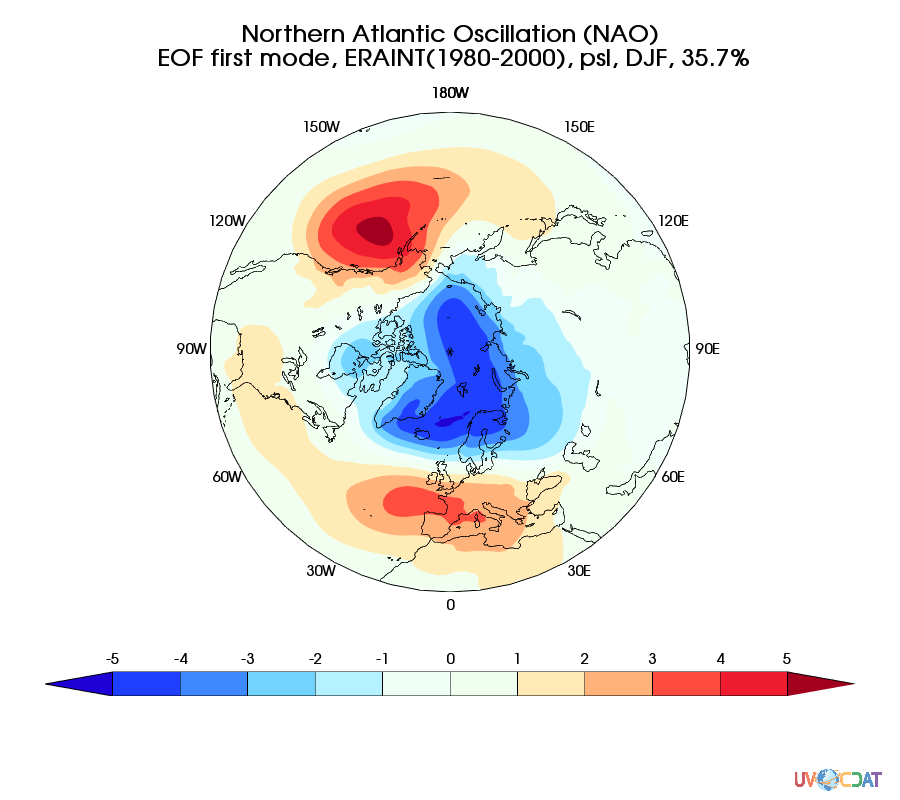
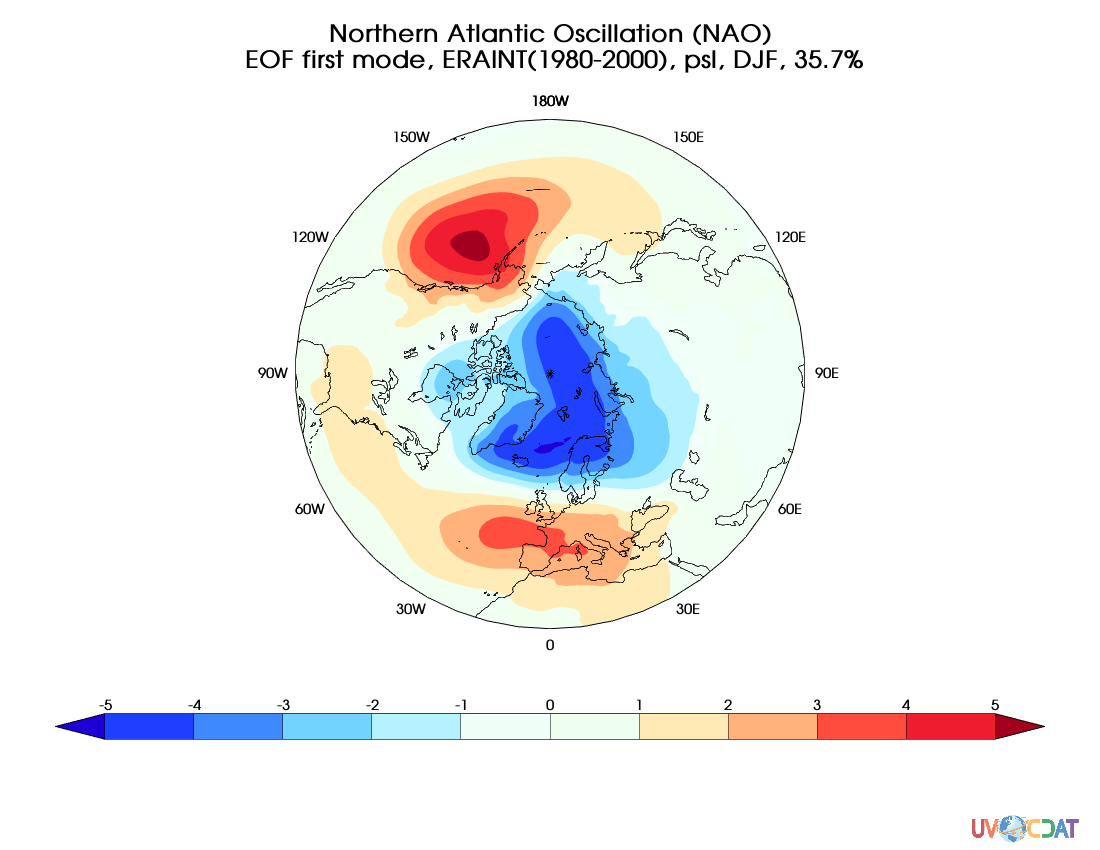
Clean up and adjust to uvcdat 2.10

diff --git a/scripts/eof_analysis_slp_np.py b/scripts/eof_analysis_slp_np.py
@@ -1,9 +1,15 @@
+################################################################################################# 
+# This Python script plots EOF analysis of DJF mean sea-level pressure from reanalysis
+# 
+# Ji-Woo Lee, LLNL, July 2017
+################################################################################################# 
+
 import cdms2 as cdms
 import cdutil
 import cdtime
 from eofs.cdms import Eof
 import vcs
-import string
+import MV2
 
 #===========================================================================================================
 # DATA
@@ -20,12 +26,11 @@ end_time = cdtime.comptime(end_year)
 
 # Load variable ---
 d = f('psl',time=(start_time,end_time),longitude=(-180,180),latitude=(20,90)) # Provide proper variable name
+d = MV2.divide(d, 100.) # Pa to hPa
+d.units = 'hPa'
 
 # Get DJF seasonal mean time series ---
 d_DJF = cdutil.DJF(d)
-
-# Unit adjustment, Pa to hPa
-d_DJF = d_DJF/100.
 
 # EOF (take only first variance mode...) ---
 solver = Eof(d_DJF, weights='area')
@@ -42,7 +47,7 @@ pc = pc * -1
 # Plot
 #-----------------------------------------------------------------------------------------------------------
 # Create canvas ---
-canvas = vcs.init(geometry=(900,800))
+canvas = vcs.init()
 
 canvas.open()
 template = canvas.createtemplate()
@@ -54,11 +59,12 @@ template.blank(['title','mean','min','max','dataname','crdate','crtime',
 # Color setup ---
 canvas.setcolormap('bl_to_darkred')
 iso = canvas.createisofill()
-iso.levels = [-5, -4, -3, -2, -1, 0, 1, 2, 3, 4, 5]
-iso.ext_1 = 'y' # control colorbar edge (arrow extention on/off)
-iso.ext_2 = 'y' # control colorbar edge (arrow extention on/off)
-cols = vcs.getcolors(iso.levels)
-iso.fillareacolors = cols
+levels = [-5, -4, -3, -2, -1, 0, 1, 2, 3, 4, 5]
+levels.insert(0,-1.e20)
+levels.append(1.e20)
+iso.levels = levels
+colors = vcs.getcolors(levels,colors=range(16,240))
+iso.fillareacolors = colors
 iso.missing = 0 # Set missing value color as same as background
 
 # Map projection ---
